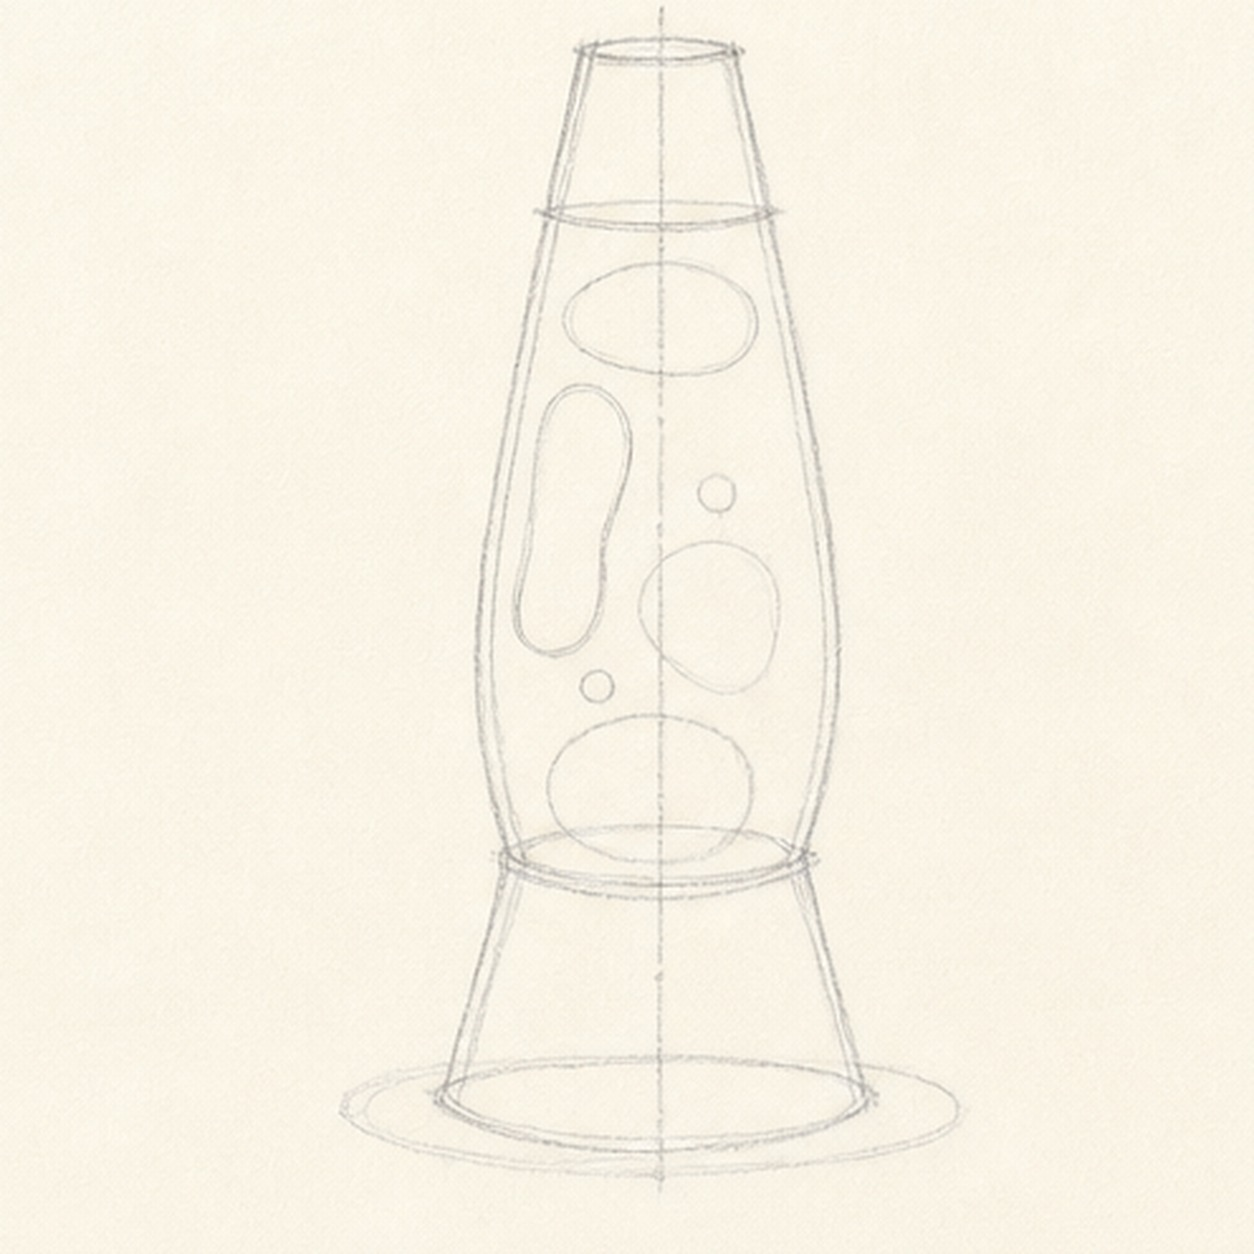
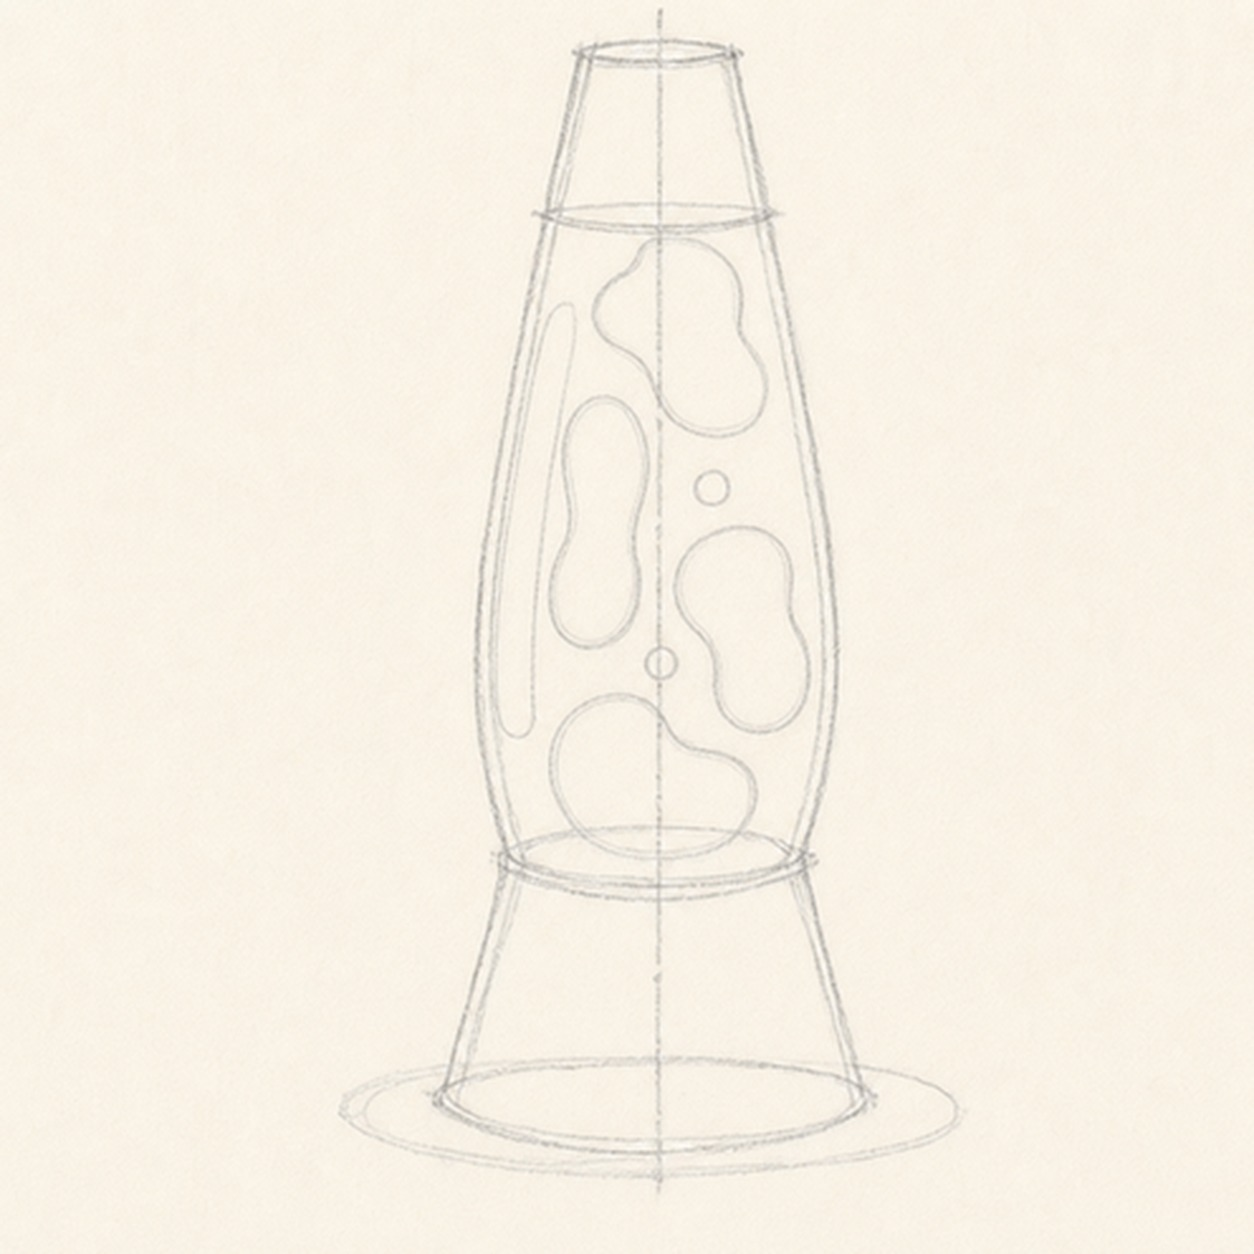
Repair lava lamp step continuity

diff --git a/tutorials/retro-lava-lamp.html b/tutorials/retro-lava-lamp.html
@@ -88,17 +88,17 @@
         {
           "@type": "HowToStep",
           "name": "Stack the lamp shapes",
-          "text": "Draw a pale center axis, flared base trapezoid, curved glass chamber, and tapered cap, then reserve four large wax routes, two small bubbles, one long glass highlight, two short metal highlights, and one shallow shadow."
+          "text": "Draw a pale center axis, flared base trapezoid, curved glass chamber, and tapered cap, then place the exact four large wax footprints and two small bubble positions you will keep through the finish, plus one long glass highlight, two short metal highlights, and one shallow shadow."
         },
         {
           "@type": "HowToStep",
           "name": "Shape the retro silhouette",
-          "text": "Wrap the guides with the complete flared base, curved glass chamber, tapered cap, and the top and bottom glass rims while preserving every internal reserve."
+          "text": "Wrap the guides with the complete flared base, curved glass chamber, tapered cap, and the top and bottom glass rims while keeping all four wax footprints and both bubble guides visible."
         },
         {
           "@type": "HowToStep",
           "name": "Float the lava shapes",
-          "text": "Add exactly four large irregular wax blobs and two small wax bubbles inside the established chamber while preserving the long glass highlight and two short metal highlights."
+          "text": "Darken and refine the four established wax footprints and two bubble guides inside the chamber while preserving the long glass highlight and two short metal highlights."
         },
         {
           "@type": "HowToStep",
@@ -199,8 +199,8 @@
             </div>
             <div class="step-copy">
               <h3>Stack the lamp shapes</h3>
-              <p>Draw a pale center axis, flared base trapezoid, curved glass chamber, and tapered cap, then reserve four large wax routes, two small bubbles, one long glass highlight, two short metal highlights, and one shallow shadow.</p>
-              <p class="artist-tip"><strong>Marker tip:</strong> Ghost the chamber sides from the cap to the base before touching down. Mark all six wax positions while the lines are light so the blobs can vary without crowding the glass.</p>
+              <p>Draw a pale center axis, flared base trapezoid, curved glass chamber, and tapered cap, then place the exact four large wax footprints and two small bubble positions you will keep through the finish, plus one long glass highlight, two short metal highlights, and one shallow shadow.</p>
+              <p class="artist-tip"><strong>Marker tip:</strong> Ghost the chamber sides from the cap to the base before touching down. Mark all six wax positions lightly and leave a clear paper channel around every shape.</p>
             </div>
           </li>
           <li class="step-card">
@@ -211,8 +211,8 @@
             </div>
             <div class="step-copy">
               <h3>Shape the retro silhouette</h3>
-              <p>Wrap the guides with the complete flared base, curved glass chamber, tapered cap, and the top and bottom glass rims while preserving every internal reserve.</p>
-              <p class="artist-tip"><strong>Marker tip:</strong> Rotate the page for the long chamber curves and compare both sides against the center axis. Keep the base wider than the cap so the lamp feels planted instead of top-heavy.</p>
+              <p>Wrap the guides with the complete flared base, curved glass chamber, tapered cap, and the top and bottom glass rims while keeping all four wax footprints and both bubble guides visible.</p>
+              <p class="artist-tip"><strong>Marker tip:</strong> Rotate the page for the long chamber curves and compare both sides against the center axis. Keep the base wider than the cap and do not erase or redraw the lava layout.</p>
             </div>
           </li>
           <li class="step-card">
@@ -223,8 +223,8 @@
             </div>
             <div class="step-copy">
               <h3>Float the lava shapes</h3>
-              <p>Add exactly four large irregular wax blobs and two small wax bubbles inside the established chamber while preserving the long glass highlight and two short metal highlights.</p>
-              <p class="artist-tip"><strong>Marker tip:</strong> Mix kidney, peanut, and rounded blob shapes, but keep a clear paper channel around each one. Count four large forms and two small circles before reaching for black marker.</p>
+              <p>Darken and refine the four established wax footprints and two bubble guides inside the chamber while preserving the long glass highlight and two short metal highlights.</p>
+              <p class="artist-tip"><strong>Marker tip:</strong> Turn the pale guides into confident kidney, peanut, and rounded contours without moving them. Count four large forms and two small circles before reaching for black marker.</p>
             </div>
           </li>
           <li class="step-card">
